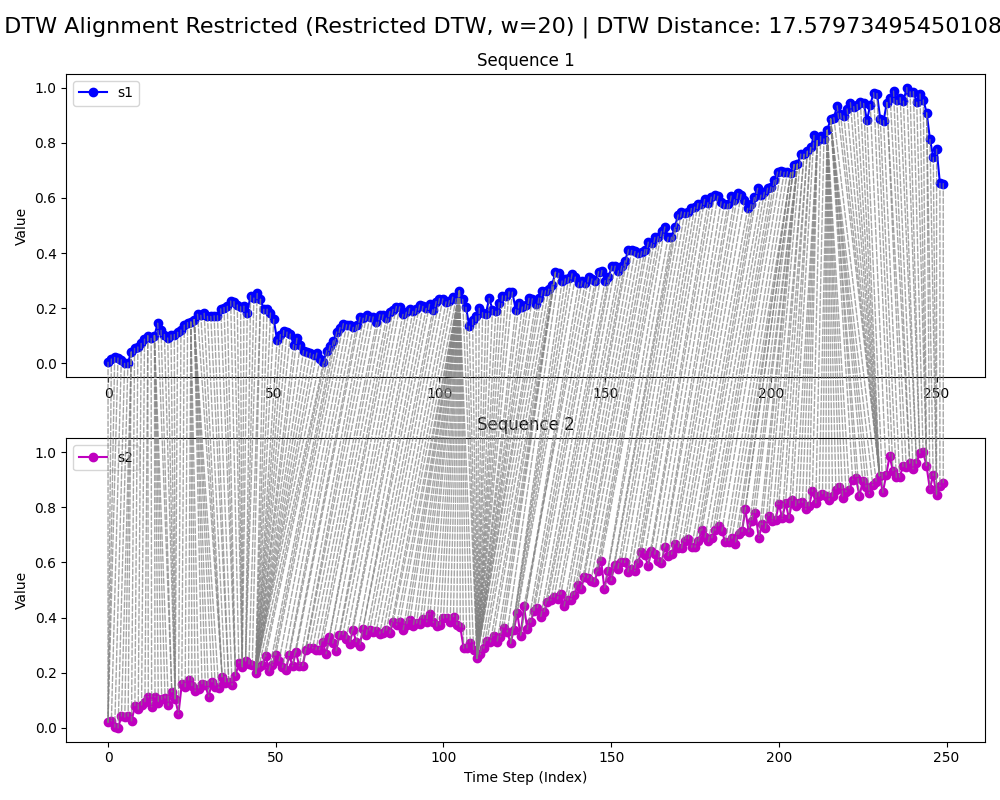
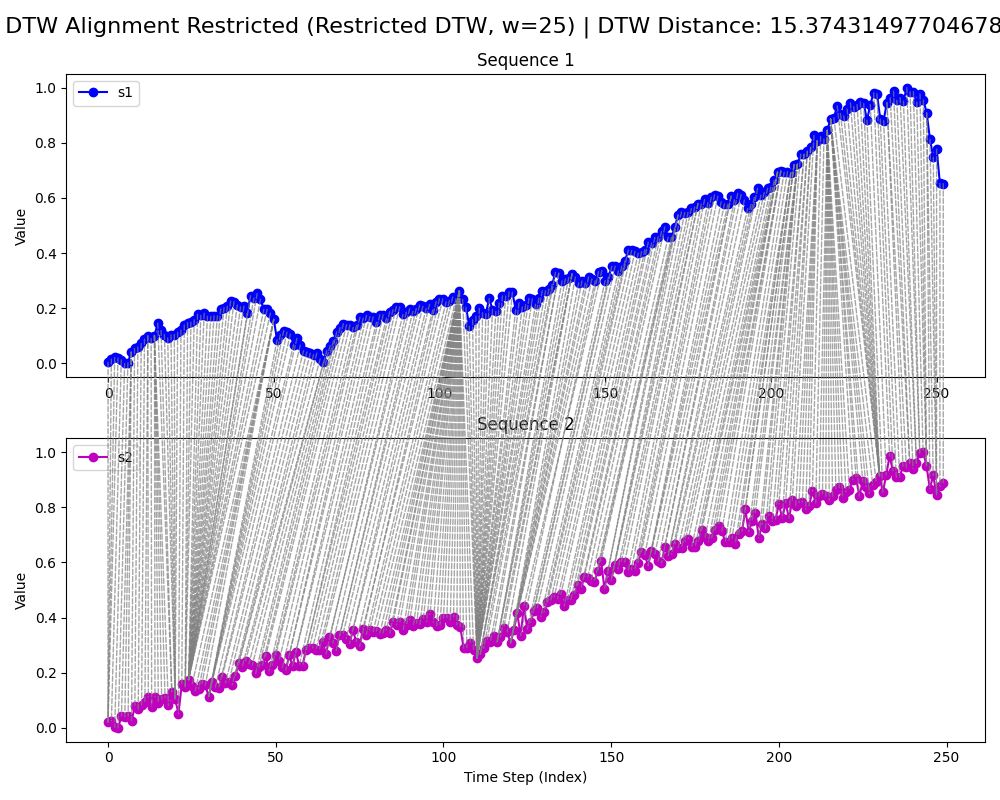
plot fix

diff --git a/appleData.py b/appleData.py
@@ -40,24 +40,26 @@ def compare_series(ref_serie, ts_series, output_dir, save_plots=False):
     
     # plot all time series together
     plot_time_series(*ts_norm, ref_serie=ref_norm, title=f'Series Comparison', save_dir=output_dir)
-
+    window_size = len(ref_norm) // 10
     distances = []
     print(f"Comparing {len(ts_norm)} time series to reference series...")
     for i in range(len(ts_norm)):
         dtw_matrix = compute_dtw_matrix(ref_norm, ts_norm[i])
-        dtw_matrix_restricted = compute_dtw_matrix_restricted(ref_norm, ts_norm[i], 40)
+        dtw_matrix_restricted = compute_dtw_matrix_restricted(ref_norm, ts_norm[i], window_size)
         distances.append(dtw_matrix[-1][-1])
+        round_dist = round(dtw_matrix[-1][-1], 1)
+        round_dist_restricted = round(dtw_matrix_restricted[-1][-1], 1)
         # distances.append(compute_dtw_matrix_restricted(ref_norm, ts_norm[i], 100)[-1][-1])
         if save_plots:
             print(f"\nPlotting Time Series {i}")
             # print(f"plot_time_series {i}.")
             plot_time_series(ref_norm, ts_norm[i], title=f'{i} Series Comparison', save_dir=output_dir)
             # print(f"plot_dtw_path {i}.")
-            plot_dtw_path(ref_norm, ts_norm[i], title=f'{i} DTW Matrix Standard', save_dir=output_dir, dtw_matrix=dtw_matrix)
-            plot_dtw_path_restricted(ref_norm, ts_norm[i], 20, title=f'{i} DTW Matrix Restricted', save_dir=output_dir, dtw_matrix=dtw_matrix_restricted)
+            plot_dtw_path(ref_norm, ts_norm[i], title=f'{i} DTW Matrix Standard, distance={round_dist}', save_dir=output_dir, dtw_matrix=dtw_matrix)
+            plot_dtw_path_restricted(ref_norm, ts_norm[i], window_size=window_size, title=f'{i} DTW Matrix Restricted, w={window_size}, distance={round_dist_restricted}', save_dir=output_dir, dtw_matrix=dtw_matrix_restricted)
             # print(f"plot_dtw_alignment {i}.")
             plot_dtw_alignment(ref_norm, ts_norm[i], 'standard', title=f'{i} DTW Alignment Standard', save_dir=output_dir, dtw_matrix=dtw_matrix)
-            plot_dtw_alignment(ref_norm, ts_norm[i], 'restricted', window=20, title=f'{i} DTW Alignment Restricted', save_dir=output_dir, dtw_matrix=dtw_matrix_restricted)
+            plot_dtw_alignment(ref_norm, ts_norm[i], 'restricted', window=window_size, title=f'{i} DTW Alignment Restricted', save_dir=output_dir, dtw_matrix=dtw_matrix_restricted)
         # print(f"DTW Distance for series {i}: {distances[-1]}")
     return distances
 
@@ -76,7 +78,7 @@ def compare_apple_stock():
     print("Maximum DTW Distance:", max(distances))
 
 def compare_weather():
-    output_dir = "outputs_weather_downsampled"
+    output_dir = "outputs_weather"
     os.makedirs(output_dir, exist_ok=True)
 
     ts_weather = load_generated_time_series("weather_data/temperatures.csv")
@@ -113,7 +115,8 @@ def compare_weather_downsampled(downsample_factor):
     
     
 if __name__ == "__main__":
-    # compare_apple_stock()
-    # compare_weather()
+    compare_apple_stock()
+    compare_weather()
+    compare_weather_downsampled(30)
     compare_weather_downsampled(80)
     pass

diff --git a/utils.py b/utils.py
@@ -25,6 +25,7 @@ def sanitize_filename(title):
     Cleans a string to make it a valid filename.
     Replaces spaces with underscores and removes invalid characters.
     """
+    title = title.replace(".", "_")
     # Replace spaces and certain separators with underscores
     filename = re.sub(r'[ \t=(),]+', '_', title.lower())
     # Remove all non-alphanumeric characters (except underscores)
@@ -187,8 +188,8 @@ def plot_dtw_matrix_with_path(dtw_matrix, path, title='DTW Cost Matrix', save_pa
     ax.set_title(title)
     ax.set_xlabel('Sequence 2 Index (j)')
     ax.set_ylabel('Sequence 1 Index (i)')
-    ax.set_xticks(np.arange(matrix.shape[1]))
-    ax.set_yticks(np.arange(matrix.shape[0]))
+    # ax.set_xticks(np.arange(matrix.shape[1]))
+    # ax.set_yticks(np.arange(matrix.shape[0]))
     ax.legend()
     plt.grid(True, which='both', linestyle='--', linewidth=0.5, color='gray')
     
